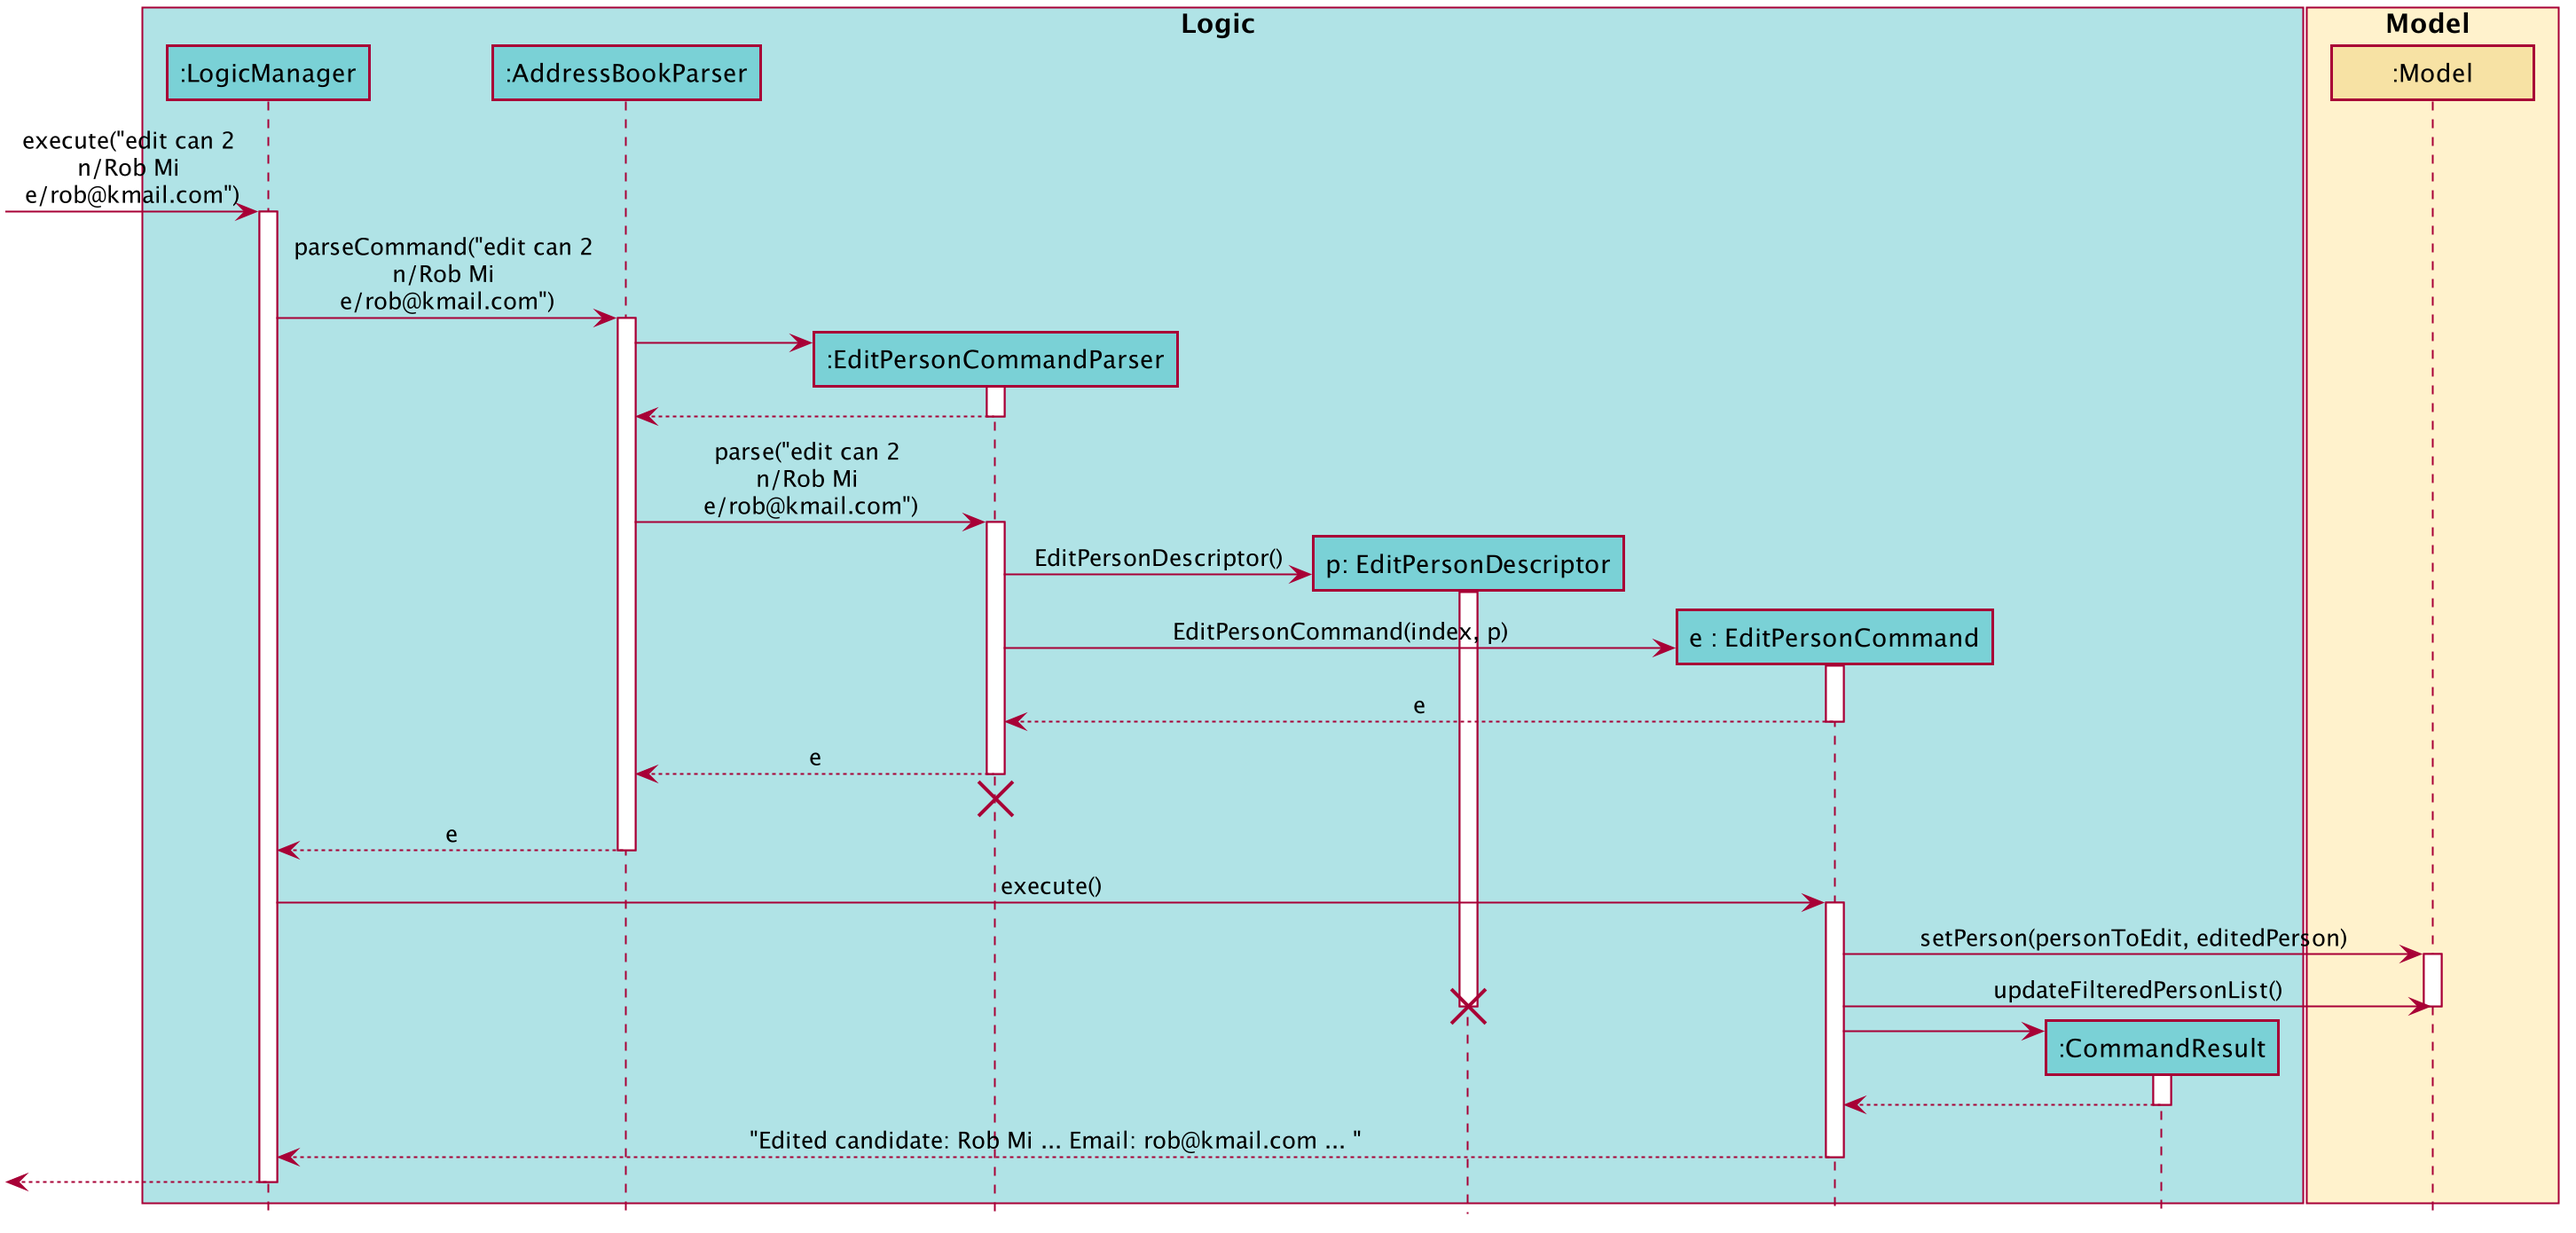
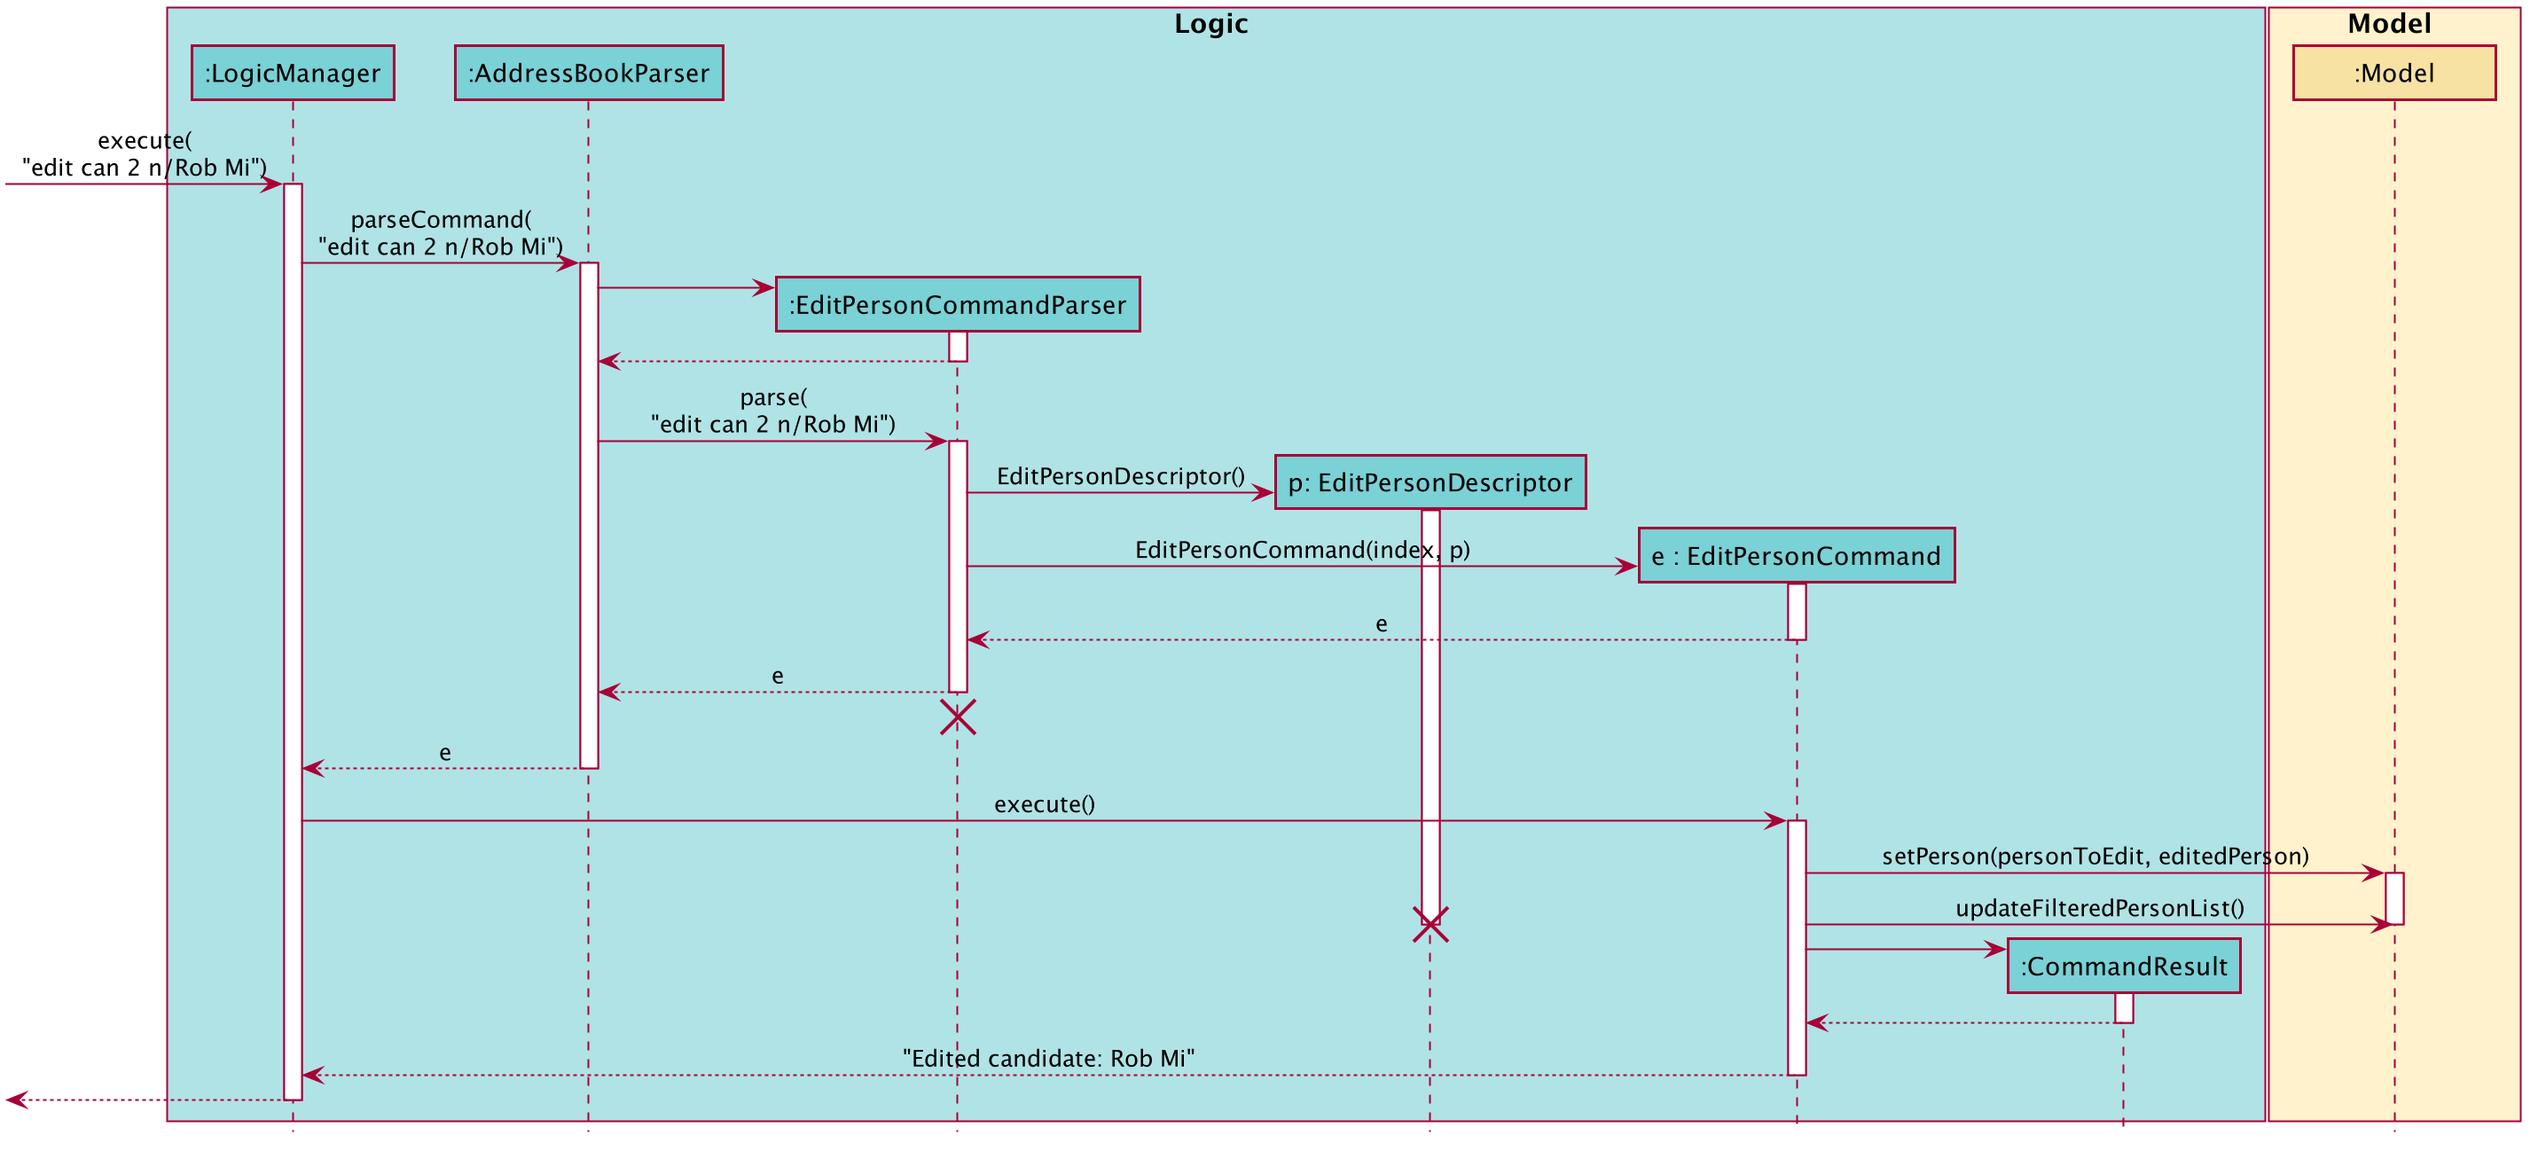
Update Edit implementation in DG

Changed region(s): [[0.0, 0.0, 0.9951, 0.9861], [0.4354, 0.0, 0.4976, 0.0308]]

diff --git a/docs/DeveloperGuide.md b/docs/DeveloperGuide.md
@@ -220,26 +220,31 @@ The sequence diagram for a `add job` operation is mostly similar, with `AddJobCo
 
 The Edit feature has two variants, one for editing candidates (`edit can`) and one for editing jobs (`edit job`) . We will illustrate this feature using only the candidates variant here
 as the job variant works analogously. 
+
 The implemented edit mechanism is facilitated by `ModelManager`.  It implements `Model` and contains a `FilteredList`, which is a subclass of `ObservableList`. 
 Additionally, it implements the following operations:
 
 *`ModelManager#setPerson(Person target, Person editedPerson)` —  Replaces the Person target  with editedPerson.
+
 *`ModelManager#updateFilteredPersonList(Predicate<Person> predicate)` —  Updates the FilteredList of persons using the supplied predicate.
 
 Given below is an example usage scenario and how the edit mechanism behaves at each step.
 
 Step 1. The user launches the application for the first time. The `FilteredList` will be initialised with the `UniquePersonList` from `personAddressBook` which contains a list of candidates.
 
-Step 2. The user executes `edit can 2 n/Rob Mi e/rob@kmail.com` to change the `Name` and `Email` of the candidate at `index` 2 to Rob Mi and rob<span>@</span>kmail.com respectively. 
+Step 2. The user executes `edit can 2 n/Rob Mi` to change the `Name` of the candidate at `index` 2 to Rob Mi. 
 
 Step 3. The method `AddressBookParser#parseCommand` is invoked to distinguish which type of command it is. After discerning it is an `edit can` command,
 the `EditPersonCommandParser#parse` is then invoked to parse the arguments.
 If the command format is invalid, `EditPersonCommandParser` throws an error.
 
-Step 4. A `EditPersonDescriptor`, which is an inner class of `EditPersonCommand`, is created from parsing the command and a `EditPersonCommand` object is created. In the `EditPersonCommand#execute` method, if the candidate index provided by the user is invalid, an error is thrown. 
+Step 4. A `EditPersonDescriptor` object, which is an inner class of `EditPersonCommand`, is created from parsing the command and is used
+to store the details to edit the candidate with. In this case, it stores the `Name` Rob Mi.
+
+Step 5. A `EditPersonCommand` object is also created from parsing the comamand. In the `EditPersonCommand#execute` method, 
+if the candidate index provided by the user is invalid, an error is thrown. 
 Otherwise, the method `ModelManager#setPerson()` is invoked to replace the old candidate with the newly edited candidate. 
- Then, `ModelManager#updateFilteredPersonList()` is invoked and the `FilteredList` is updated.
-The `personAddressBook` is also updated with the new changes and saved. 
+ Then, `ModelManager#updateFilteredPersonList()` is invoked and the `FilteredList` and `personAddressBook` is updated and saved.
 
 The following sequence diagram shows how the edit operation works in the scenario described above:
 
